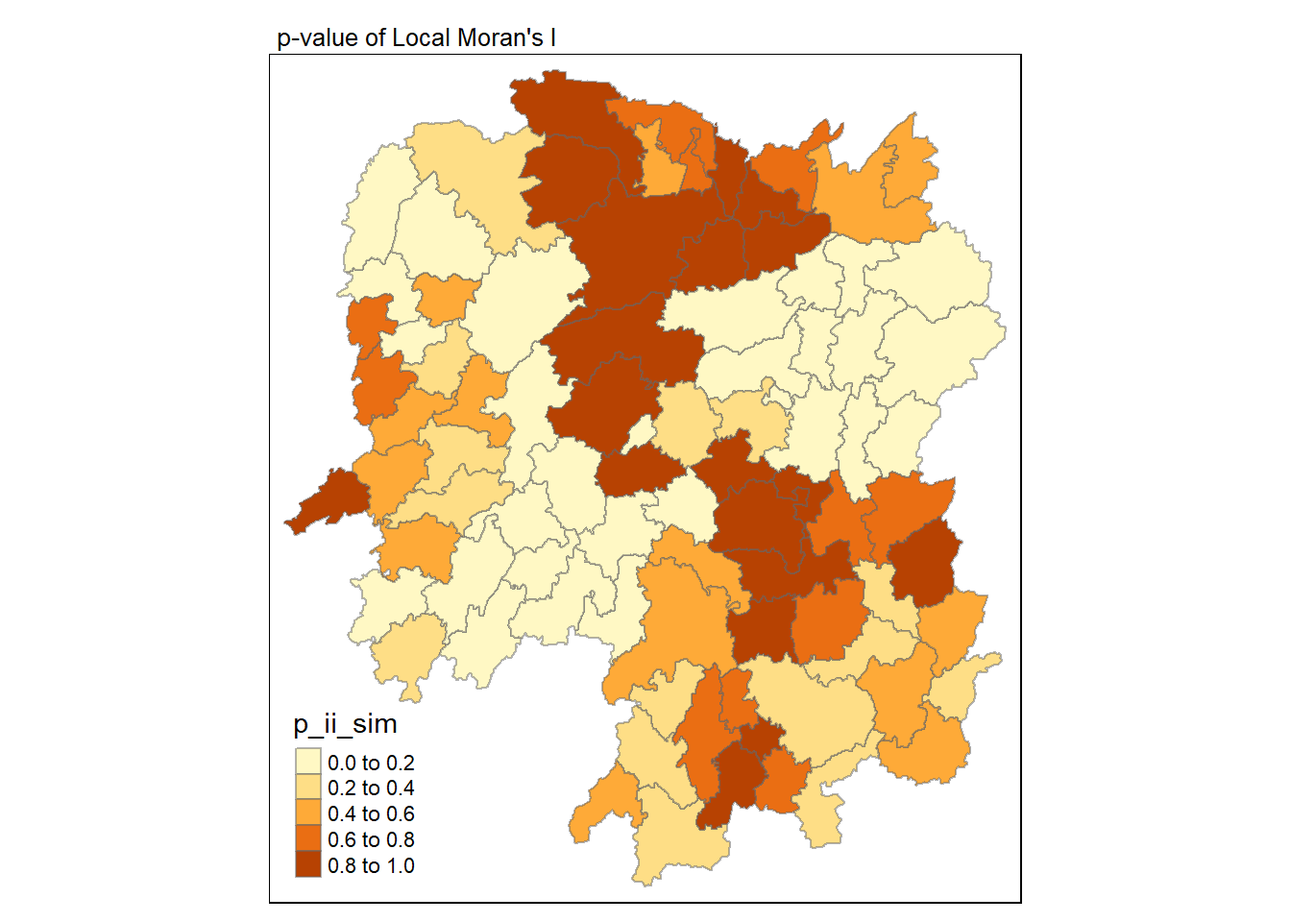
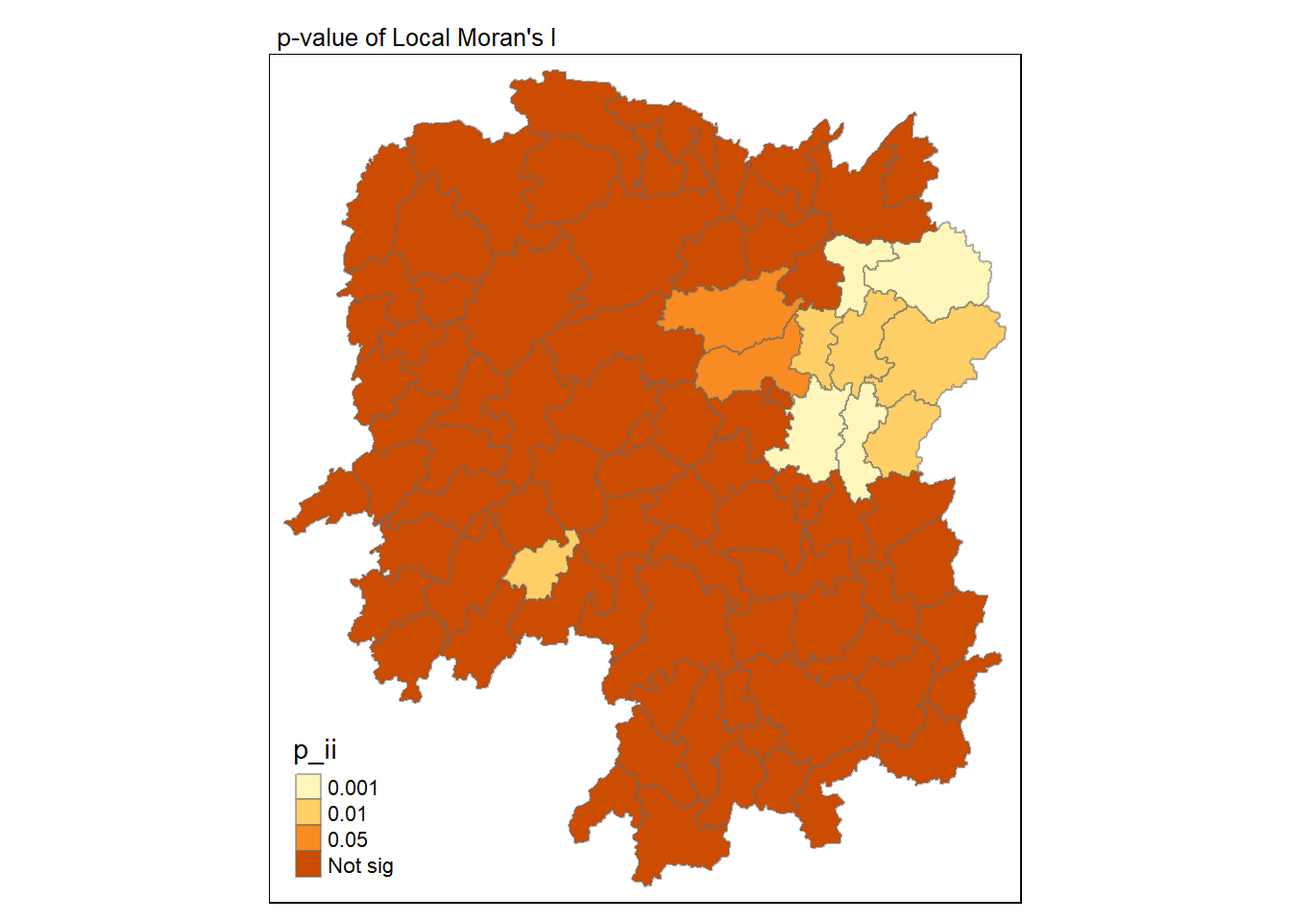
updates to inclass exercise 2b

Changed region(s): [[0.25, 0.0938, 0.7812, 0.9688], [0.2188, 0.7812, 0.3438, 0.9688]]

diff --git a/_site/In-class_Ex/In-class_Ex2/In-class_Ex2b.html b/_site/In-class_Ex/In-class_Ex2/In-class_Ex2b.html
@@ -223,11 +223,16 @@ pre > code.sourceCode > span > a:first-child::before { text-decoration: underlin
   <li><a href="#performning-global-morans-i-permutation-test" id="toc-performning-global-morans-i-permutation-test" class="nav-link" data-scroll-target="#performning-global-morans-i-permutation-test"><span class="header-section-number">7.4</span> Performning Global Moran’s I permutation test</a></li>
   <li><a href="#computing-local-morans-i" id="toc-computing-local-morans-i" class="nav-link" data-scroll-target="#computing-local-morans-i"><span class="header-section-number">7.5</span> Computing Local Moran’s I</a></li>
   <li><a href="#visualising-local-morans-i" id="toc-visualising-local-morans-i" class="nav-link" data-scroll-target="#visualising-local-morans-i"><span class="header-section-number">7.6</span> Visualising Local Moran’s I</a></li>
-  <li><a href="#visualising-local-morans-p-value" id="toc-visualising-local-morans-p-value" class="nav-link" data-scroll-target="#visualising-local-morans-p-value"><span class="header-section-number">7.7</span> Visualising Local Moran’s p-value</a></li>
-  <li><a href="#visualising-local-morans-i-and-p-value" id="toc-visualising-local-morans-i-and-p-value" class="nav-link" data-scroll-target="#visualising-local-morans-i-and-p-value"><span class="header-section-number">7.8</span> Visualising Local Moran’s I and p-value</a></li>
+  <li><a href="#visualising-local-morans-p-values" id="toc-visualising-local-morans-p-values" class="nav-link" data-scroll-target="#visualising-local-morans-p-values"><span class="header-section-number">7.7</span> Visualising Local Moran’s p-values</a></li>
+  <li><a href="#visualising-local-morans-i-and-p-values" id="toc-visualising-local-morans-i-and-p-values" class="nav-link" data-scroll-target="#visualising-local-morans-i-and-p-values"><span class="header-section-number">7.8</span> Visualising Local Moran’s I and p-values</a></li>
   <li><a href="#visualising-lisa-map" id="toc-visualising-lisa-map" class="nav-link" data-scroll-target="#visualising-lisa-map"><span class="header-section-number">7.9</span> Visualising LISA Map</a></li>
   </ul></li>
   <li><a href="#hot-spot-and-cold-spot-area-analysis-hcsa" id="toc-hot-spot-and-cold-spot-area-analysis-hcsa" class="nav-link" data-scroll-target="#hot-spot-and-cold-spot-area-analysis-hcsa"><span class="header-section-number">8</span> Hot Spot and Cold Spot Area Analysis (HCSA)</a></li>
+  <li><a href="#computing-local-gi-statistics" id="toc-computing-local-gi-statistics" class="nav-link" data-scroll-target="#computing-local-gi-statistics"><span class="header-section-number">9</span> Computing local Gi* Statistics</a>
+  <ul class="collapse">
+  <li><a href="#visualing-gi" id="toc-visualing-gi" class="nav-link" data-scroll-target="#visualing-gi"><span class="header-section-number">9.1</span> Visualing Gi*</a></li>
+  <li><a href="#visualising-hot-spot-and-cold-spot-areas" id="toc-visualising-hot-spot-and-cold-spot-areas" class="nav-link" data-scroll-target="#visualising-hot-spot-and-cold-spot-areas"><span class="header-section-number">9.2</span> Visualising Hot Spot and Cold Spot Areas</a></li>
+  </ul></li>
   </ul>
 </nav>
     </div>
@@ -612,23 +617,24 @@ Geodetic CRS:  WGS 84
 </div>
 </div>
 </section>
-<section id="visualising-local-morans-p-value" class="level3" data-number="7.7">
-<h3 data-number="7.7" class="anchored" data-anchor-id="visualising-local-morans-p-value"><span class="header-section-number">7.7</span> Visualising Local Moran’s p-value</h3>
-<p>We can use <strong>tmap</strong> package to prepare a choropleth map using the values in the <em>p_ii_sim</em> field.</p>
+<section id="visualising-local-morans-p-values" class="level3" data-number="7.7">
+<h3 data-number="7.7" class="anchored" data-anchor-id="visualising-local-morans-p-values"><span class="header-section-number">7.7</span> Visualising Local Moran’s p-values</h3>
+<p>We can use <strong>tmap</strong> package to prepare a choropleth map using the values in the <em>p_ii</em> field.</p>
 <div class="cell">
 <div class="sourceCode cell-code" id="cb20"><pre class="sourceCode r code-with-copy"><code class="sourceCode r"><span id="cb20-1"><a href="#cb20-1" aria-hidden="true" tabindex="-1"></a><span class="fu">tmap_mode</span>(<span class="st">"plot"</span>)</span>
 <span id="cb20-2"><a href="#cb20-2" aria-hidden="true" tabindex="-1"></a><span class="fu">tm_shape</span>(lisa) <span class="sc">+</span></span>
-<span id="cb20-3"><a href="#cb20-3" aria-hidden="true" tabindex="-1"></a>  <span class="fu">tm_fill</span>(<span class="st">"p_ii_sim"</span>) <span class="sc">+</span></span>
-<span id="cb20-4"><a href="#cb20-4" aria-hidden="true" tabindex="-1"></a>  <span class="fu">tm_borders</span>(<span class="at">alpha =</span> <span class="fl">0.5</span>) <span class="sc">+</span></span>
-<span id="cb20-5"><a href="#cb20-5" aria-hidden="true" tabindex="-1"></a>  <span class="fu">tm_layout</span>(<span class="at">main.title =</span> <span class="st">"p-value of Local Moran's I"</span>, </span>
-<span id="cb20-6"><a href="#cb20-6" aria-hidden="true" tabindex="-1"></a>            <span class="at">main.title.size =</span> <span class="fl">0.8</span>)</span></code><button title="Copy to Clipboard" class="code-copy-button"><i class="bi"></i></button></pre></div>
+<span id="cb20-3"><a href="#cb20-3" aria-hidden="true" tabindex="-1"></a>  <span class="fu">tm_fill</span>(<span class="st">"p_ii"</span>, <span class="at">breaks =</span> <span class="fu">c</span>(<span class="dv">0</span>, <span class="fl">0.001</span>, <span class="fl">0.01</span>, <span class="fl">0.05</span>, <span class="dv">1</span>),</span>
+<span id="cb20-4"><a href="#cb20-4" aria-hidden="true" tabindex="-1"></a>              <span class="at">labels =</span> <span class="fu">c</span>(<span class="st">"0.001"</span>, <span class="st">"0.01"</span>, <span class="st">"0.05"</span>, <span class="st">"Not sig"</span>)) <span class="sc">+</span></span>
+<span id="cb20-5"><a href="#cb20-5" aria-hidden="true" tabindex="-1"></a>  <span class="fu">tm_borders</span>(<span class="at">alpha =</span> <span class="fl">0.5</span>) <span class="sc">+</span></span>
+<span id="cb20-6"><a href="#cb20-6" aria-hidden="true" tabindex="-1"></a>  <span class="fu">tm_layout</span>(<span class="at">main.title =</span> <span class="st">"p-value of Local Moran's I"</span>, </span>
+<span id="cb20-7"><a href="#cb20-7" aria-hidden="true" tabindex="-1"></a>            <span class="at">main.title.size =</span> <span class="fl">0.8</span>)</span></code><button title="Copy to Clipboard" class="code-copy-button"><i class="bi"></i></button></pre></div>
 <div class="cell-output-display">
 <p><img src="In-class_Ex2b_files/figure-html/unnamed-chunk-14-1.png" class="img-fluid" width="672"></p>
 </div>
 </div>
 </section>
-<section id="visualising-local-morans-i-and-p-value" class="level3" data-number="7.8">
-<h3 data-number="7.8" class="anchored" data-anchor-id="visualising-local-morans-i-and-p-value"><span class="header-section-number">7.8</span> Visualising Local Moran’s I and p-value</h3>
+<section id="visualising-local-morans-i-and-p-values" class="level3" data-number="7.8">
+<h3 data-number="7.8" class="anchored" data-anchor-id="visualising-local-morans-i-and-p-values"><span class="header-section-number">7.8</span> Visualising Local Moran’s I and p-values</h3>
 <p>For effective comparison, let us plot both maps next to each other.</p>
 <div class="cell">
 <div class="sourceCode cell-code" id="cb21"><pre class="sourceCode r code-with-copy"><code class="sourceCode r"><span id="cb21-1"><a href="#cb21-1" aria-hidden="true" tabindex="-1"></a><span class="fu">tmap_mode</span>(<span class="st">"plot"</span>)</span>
@@ -639,13 +645,14 @@ Geodetic CRS:  WGS 84
 <span id="cb21-6"><a href="#cb21-6" aria-hidden="true" tabindex="-1"></a>  <span class="fu">tm_layout</span>(<span class="at">main.title =</span> <span class="st">"Local Moran's I of GDPPC"</span>, </span>
 <span id="cb21-7"><a href="#cb21-7" aria-hidden="true" tabindex="-1"></a>            <span class="at">main.title.size =</span> <span class="fl">0.8</span>)</span>
 <span id="cb21-8"><a href="#cb21-8" aria-hidden="true" tabindex="-1"></a></span>
-<span id="cb21-9"><a href="#cb21-9" aria-hidden="true" tabindex="-1"></a>piisim_val <span class="ot">&lt;-</span> <span class="fu">tm_shape</span>(lisa) <span class="sc">+</span></span>
-<span id="cb21-10"><a href="#cb21-10" aria-hidden="true" tabindex="-1"></a>  <span class="fu">tm_fill</span>(<span class="st">"p_ii_sim"</span>) <span class="sc">+</span></span>
-<span id="cb21-11"><a href="#cb21-11" aria-hidden="true" tabindex="-1"></a>  <span class="fu">tm_borders</span>(<span class="at">alpha =</span> <span class="fl">0.5</span>) <span class="sc">+</span></span>
-<span id="cb21-12"><a href="#cb21-12" aria-hidden="true" tabindex="-1"></a>  <span class="fu">tm_layout</span>(<span class="at">main.title =</span> <span class="st">"p-value of Local Moran's I"</span>, </span>
-<span id="cb21-13"><a href="#cb21-13" aria-hidden="true" tabindex="-1"></a>            <span class="at">main.title.size =</span> <span class="fl">0.8</span>)</span>
-<span id="cb21-14"><a href="#cb21-14" aria-hidden="true" tabindex="-1"></a></span>
-<span id="cb21-15"><a href="#cb21-15" aria-hidden="true" tabindex="-1"></a><span class="fu">tmap_arrange</span>(ii_val, piisim_val, <span class="at">asp =</span> <span class="dv">1</span>, <span class="at">ncol =</span> <span class="dv">2</span>)</span></code><button title="Copy to Clipboard" class="code-copy-button"><i class="bi"></i></button></pre></div>
+<span id="cb21-9"><a href="#cb21-9" aria-hidden="true" tabindex="-1"></a>pii_val <span class="ot">&lt;-</span> <span class="fu">tm_shape</span>(lisa) <span class="sc">+</span></span>
+<span id="cb21-10"><a href="#cb21-10" aria-hidden="true" tabindex="-1"></a>  <span class="fu">tm_fill</span>(<span class="st">"p_ii"</span>, <span class="at">breaks =</span> <span class="fu">c</span>(<span class="dv">0</span>, <span class="fl">0.001</span>, <span class="fl">0.01</span>, <span class="fl">0.05</span>, <span class="dv">1</span>),</span>
+<span id="cb21-11"><a href="#cb21-11" aria-hidden="true" tabindex="-1"></a>              <span class="at">labels =</span> <span class="fu">c</span>(<span class="st">"0.001"</span>, <span class="st">"0.01"</span>, <span class="st">"0.05"</span>, <span class="st">"Not sig"</span>)) <span class="sc">+</span></span>
+<span id="cb21-12"><a href="#cb21-12" aria-hidden="true" tabindex="-1"></a>  <span class="fu">tm_borders</span>(<span class="at">alpha =</span> <span class="fl">0.5</span>) <span class="sc">+</span></span>
+<span id="cb21-13"><a href="#cb21-13" aria-hidden="true" tabindex="-1"></a>  <span class="fu">tm_layout</span>(<span class="at">main.title =</span> <span class="st">"p-value of Local Moran's I"</span>, </span>
+<span id="cb21-14"><a href="#cb21-14" aria-hidden="true" tabindex="-1"></a>            <span class="at">main.title.size =</span> <span class="fl">0.8</span>)</span>
+<span id="cb21-15"><a href="#cb21-15" aria-hidden="true" tabindex="-1"></a></span>
+<span id="cb21-16"><a href="#cb21-16" aria-hidden="true" tabindex="-1"></a><span class="fu">tmap_arrange</span>(ii_val, pii_val, <span class="at">asp =</span> <span class="dv">1</span>, <span class="at">ncol =</span> <span class="dv">2</span>)</span></code><button title="Copy to Clipboard" class="code-copy-button"><i class="bi"></i></button></pre></div>
 <div class="cell-output-display">
 <p><img src="In-class_Ex2b_files/figure-html/unnamed-chunk-15-1.png" class="img-fluid" width="672"></p>
 </div>
@@ -653,12 +660,156 @@ Geodetic CRS:  WGS 84
 </section>
 <section id="visualising-lisa-map" class="level3" data-number="7.9">
 <h3 data-number="7.9" class="anchored" data-anchor-id="visualising-lisa-map"><span class="header-section-number">7.9</span> Visualising LISA Map</h3>
+<p>LISA map is a categorical map showing outliers and clusters. There are two types of outliers namely: High-Low and Low-High outliers. Likewise, there are two type of clusters namely: High-High and Low-Low cluaters. In fact, LISA map is an interpreted map by combining local Moran's I of geographical areas and their respective p-values.</p>
+<p>In <code>lisa</code> sf data.frame, we can find three fields contain the LISA categories. They are&nbsp;<em>mean</em>,&nbsp;<em>median</em>&nbsp;and&nbsp;<em>pysal</em>. In general, classification in&nbsp;<em>mean</em>&nbsp;will be used as shown in the code chunk below.</p>
+<div class="cell">
+<div class="sourceCode cell-code" id="cb22"><pre class="sourceCode r code-with-copy"><code class="sourceCode r"><span id="cb22-1"><a href="#cb22-1" aria-hidden="true" tabindex="-1"></a>lisa_sig <span class="ot">&lt;-</span> lisa <span class="sc">%&gt;%</span> </span>
+<span id="cb22-2"><a href="#cb22-2" aria-hidden="true" tabindex="-1"></a>  <span class="fu">filter</span>(p_ii <span class="sc">&lt;</span><span class="fl">0.05</span>)</span>
+<span id="cb22-3"><a href="#cb22-3" aria-hidden="true" tabindex="-1"></a></span>
+<span id="cb22-4"><a href="#cb22-4" aria-hidden="true" tabindex="-1"></a><span class="fu">tmap_mode</span>(<span class="st">"plot"</span>)</span>
+<span id="cb22-5"><a href="#cb22-5" aria-hidden="true" tabindex="-1"></a><span class="fu">tm_shape</span>(lisa) <span class="sc">+</span> </span>
+<span id="cb22-6"><a href="#cb22-6" aria-hidden="true" tabindex="-1"></a>  <span class="fu">tm_polygons</span>() <span class="sc">+</span></span>
+<span id="cb22-7"><a href="#cb22-7" aria-hidden="true" tabindex="-1"></a>  <span class="fu">tm_borders</span>(<span class="at">alpha =</span> <span class="fl">0.5</span>) <span class="sc">+</span></span>
+<span id="cb22-8"><a href="#cb22-8" aria-hidden="true" tabindex="-1"></a>  <span class="fu">tm_shape</span>(lisa_sig) <span class="sc">+</span> </span>
+<span id="cb22-9"><a href="#cb22-9" aria-hidden="true" tabindex="-1"></a>  <span class="fu">tm_fill</span>(<span class="st">"mean"</span>) <span class="sc">+</span></span>
+<span id="cb22-10"><a href="#cb22-10" aria-hidden="true" tabindex="-1"></a>  <span class="fu">tm_borders</span>(<span class="at">alpha =</span> <span class="fl">0.4</span>)</span></code><button title="Copy to Clipboard" class="code-copy-button"><i class="bi"></i></button></pre></div>
+<div class="cell-output-display">
+<p><img src="In-class_Ex2b_files/figure-html/unnamed-chunk-16-1.png" class="img-fluid" width="672"></p>
+</div>
+</div>
 </section>
 </section>
 <section id="hot-spot-and-cold-spot-area-analysis-hcsa" class="level2" data-number="8">
 <h2 data-number="8" class="anchored" data-anchor-id="hot-spot-and-cold-spot-area-analysis-hcsa"><span class="header-section-number">8</span> Hot Spot and Cold Spot Area Analysis (HCSA)</h2>
+<p>HCSA uses spatial weights to identify locations of statistically significant hot spots and cold spots in an spatially weighted attribute that are in proximity to one another based on a calculated distance. The analysis groups features when similar high (hot) or low (cold) values are found in a cluster. The polygon features usually represent administration boundaries or a custom grid structure.</p>
+</section>
+<section id="computing-local-gi-statistics" class="level2" data-number="9">
+<h2 data-number="9" class="anchored" data-anchor-id="computing-local-gi-statistics"><span class="header-section-number">9</span> Computing local Gi* Statistics</h2>
+<p>First, we will compute an inverse distance weight matrix.</p>
+<div class="cell">
+<div class="sourceCode cell-code" id="cb23"><pre class="sourceCode r code-with-copy"><code class="sourceCode r"><span id="cb23-1"><a href="#cb23-1" aria-hidden="true" tabindex="-1"></a>wm_idw <span class="ot">&lt;-</span> hunan_GDPPC <span class="sc">%&gt;%</span></span>
+<span id="cb23-2"><a href="#cb23-2" aria-hidden="true" tabindex="-1"></a>  <span class="fu">mutate</span>(<span class="at">nb =</span> <span class="fu">st_contiguity</span>(geometry), </span>
+<span id="cb23-3"><a href="#cb23-3" aria-hidden="true" tabindex="-1"></a>         <span class="at">wt =</span> <span class="fu">st_inverse_distance</span>(nb, geometry, </span>
+<span id="cb23-4"><a href="#cb23-4" aria-hidden="true" tabindex="-1"></a>                                  <span class="at">scale =</span> <span class="dv">1</span>,</span>
+<span id="cb23-5"><a href="#cb23-5" aria-hidden="true" tabindex="-1"></a>                                  <span class="at">alpha =</span> <span class="dv">1</span>),</span>
+<span id="cb23-6"><a href="#cb23-6" aria-hidden="true" tabindex="-1"></a>         <span class="at">.before=</span><span class="dv">1</span>)</span></code><button title="Copy to Clipboard" class="code-copy-button"><i class="bi"></i></button></pre></div>
+</div>
+<p>We will then use <em>local_gstar_perm()</em> of <strong>sfdep</strong> package to compute local Gi* statistics using the following code chunk.</p>
+<div class="cell">
+<div class="sourceCode cell-code" id="cb24"><pre class="sourceCode r code-with-copy"><code class="sourceCode r"><span id="cb24-1"><a href="#cb24-1" aria-hidden="true" tabindex="-1"></a>HCSA <span class="ot">&lt;-</span> wm_idw <span class="sc">%&gt;%</span> </span>
+<span id="cb24-2"><a href="#cb24-2" aria-hidden="true" tabindex="-1"></a>  <span class="fu">mutate</span>(<span class="at">local_Gi =</span> <span class="fu">local_gstar_perm</span>(GDPPC, nb, wt, <span class="at">nsim=</span><span class="dv">99</span>),</span>
+<span id="cb24-3"><a href="#cb24-3" aria-hidden="true" tabindex="-1"></a>         <span class="at">.before =</span> <span class="dv">1</span>) <span class="sc">%&gt;%</span> </span>
+<span id="cb24-4"><a href="#cb24-4" aria-hidden="true" tabindex="-1"></a>  <span class="fu">unnest</span>(local_Gi)</span></code><button title="Copy to Clipboard" class="code-copy-button"><i class="bi"></i></button></pre></div>
+</div>
+<p>Let us take a look at the output.</p>
+<div class="cell">
+<div class="sourceCode cell-code" id="cb25"><pre class="sourceCode r code-with-copy"><code class="sourceCode r"><span id="cb25-1"><a href="#cb25-1" aria-hidden="true" tabindex="-1"></a>HCSA</span></code><button title="Copy to Clipboard" class="code-copy-button"><i class="bi"></i></button></pre></div>
+<div class="cell-output cell-output-stdout">
+<pre><code>Simple feature collection with 88 features and 16 fields
+Geometry type: POLYGON
+Dimension:     XY
+Bounding box:  xmin: 108.7831 ymin: 24.6342 xmax: 114.2544 ymax: 30.12812
+Geodetic CRS:  WGS 84
+# A tibble: 88 × 17
+   gi_star   e_gi    var_gi p_value   p_sim p_folded_sim skewness kurtosis nb   
+     &lt;dbl&gt;  &lt;dbl&gt;     &lt;dbl&gt;   &lt;dbl&gt;   &lt;dbl&gt;        &lt;dbl&gt;    &lt;dbl&gt;    &lt;dbl&gt; &lt;nb&gt; 
+ 1  0.0416 0.0114   6.41e-6  0.0493 9.61e-1         0.7      0.35    0.875 &lt;int&gt;
+ 2 -0.333  0.0106   3.84e-6 -0.0941 9.25e-1         1        0.5     0.661 &lt;int&gt;
+ 3  0.281  0.0126   7.51e-6 -0.151  8.80e-1         0.9      0.45    0.640 &lt;int&gt;
+ 4  0.411  0.0118   9.22e-6  0.264  7.92e-1         0.6      0.3     0.853 &lt;int&gt;
+ 5  0.387  0.0115   9.56e-6  0.339  7.34e-1         0.62     0.31    1.07  &lt;int&gt;
+ 6 -0.368  0.0118   5.91e-6 -0.583  5.60e-1         0.72     0.36    0.594 &lt;int&gt;
+ 7  3.56   0.0151   7.31e-6  2.61   9.01e-3         0.06     0.03    1.09  &lt;int&gt;
+ 8  2.52   0.0136   6.14e-6  1.49   1.35e-1         0.2      0.1     1.12  &lt;int&gt;
+ 9  4.56   0.0144   5.84e-6  3.53   4.17e-4         0.04     0.02    1.23  &lt;int&gt;
+10  1.16   0.0104   3.70e-6  1.82   6.86e-2         0.12     0.06    0.416 &lt;int&gt;
+# ℹ 78 more rows
+# ℹ 8 more variables: wt &lt;list&gt;, NAME_2 &lt;chr&gt;, ID_3 &lt;int&gt;, NAME_3 &lt;chr&gt;,
+#   ENGTYPE_3 &lt;chr&gt;, County &lt;chr&gt;, GDPPC &lt;int&gt;, geometry &lt;POLYGON [°]&gt;</code></pre>
+</div>
+</div>
+<p>From the above results, we see that the following columns are generated due to <em>local_gstar_perm()</em> :</p>
+<ul>
+<li><p><em>gi_star</em>: the observed statistic</p></li>
+<li><p>e_gi: the permutation sample mean</p></li>
+<li><p><em>var_gi</em>: the permutation sample variance</p></li>
+<li><p><em>p_value</em>: the p-value using sample mean and standard deviation</p></li>
+<li><p><em>p_folded_sim</em>: p-value based on the implementation of Pysal which always assumes a two-sided test taking the minimum possible p-value</p></li>
+<li><p><em>skewness</em>: sample skewness</p></li>
+<li><p><em>kurtosis</em>: sample kurtosis</p></li>
+</ul>
+<section id="visualing-gi" class="level3" data-number="9.1">
+<h3 data-number="9.1" class="anchored" data-anchor-id="visualing-gi"><span class="header-section-number">9.1</span> Visualing Gi*</h3>
+<p>We use the following code chunk to visualise the Gi* computed.</p>
+<div class="cell">
+<div class="sourceCode cell-code" id="cb27"><pre class="sourceCode r code-with-copy"><code class="sourceCode r"><span id="cb27-1"><a href="#cb27-1" aria-hidden="true" tabindex="-1"></a><span class="fu">tmap_mode</span>(<span class="st">"plot"</span>)</span>
+<span id="cb27-2"><a href="#cb27-2" aria-hidden="true" tabindex="-1"></a></span>
+<span id="cb27-3"><a href="#cb27-3" aria-hidden="true" tabindex="-1"></a><span class="fu">tm_shape</span>(HCSA) <span class="sc">+</span></span>
+<span id="cb27-4"><a href="#cb27-4" aria-hidden="true" tabindex="-1"></a>  <span class="fu">tm_fill</span>(<span class="st">"gi_star"</span>) <span class="sc">+</span></span>
+<span id="cb27-5"><a href="#cb27-5" aria-hidden="true" tabindex="-1"></a>  <span class="fu">tm_borders</span>(<span class="at">alpha =</span> <span class="fl">0.5</span>) <span class="sc">+</span></span>
+<span id="cb27-6"><a href="#cb27-6" aria-hidden="true" tabindex="-1"></a>  <span class="fu">tm_view</span>(<span class="at">set.zoom.limits =</span> <span class="fu">c</span>(<span class="dv">6</span>,<span class="dv">8</span>))</span></code><button title="Copy to Clipboard" class="code-copy-button"><i class="bi"></i></button></pre></div>
+<div class="cell-output-display">
+<p><img src="In-class_Ex2b_files/figure-html/unnamed-chunk-20-1.png" class="img-fluid" width="672"></p>
+</div>
+</div>
+<p>Visualising p-value of HCSA</p>
+<p>We use the following code chunk to visualise the p-values of HCSA computed.</p>
+<div class="cell">
+<div class="sourceCode cell-code" id="cb28"><pre class="sourceCode r code-with-copy"><code class="sourceCode r"><span id="cb28-1"><a href="#cb28-1" aria-hidden="true" tabindex="-1"></a><span class="fu">tmap_mode</span>(<span class="st">"plot"</span>)</span>
+<span id="cb28-2"><a href="#cb28-2" aria-hidden="true" tabindex="-1"></a></span>
+<span id="cb28-3"><a href="#cb28-3" aria-hidden="true" tabindex="-1"></a><span class="fu">tm_shape</span>(HCSA) <span class="sc">+</span></span>
+<span id="cb28-4"><a href="#cb28-4" aria-hidden="true" tabindex="-1"></a>  <span class="fu">tm_fill</span>(<span class="st">"p_folded_sim"</span>) <span class="sc">+</span></span>
+<span id="cb28-5"><a href="#cb28-5" aria-hidden="true" tabindex="-1"></a>  <span class="fu">tm_borders</span>(<span class="at">alpha =</span> <span class="fl">0.5</span>) <span class="sc">+</span></span>
+<span id="cb28-6"><a href="#cb28-6" aria-hidden="true" tabindex="-1"></a>  <span class="fu">tm_view</span>(<span class="at">set.zoom.limits =</span> <span class="fu">c</span>(<span class="dv">6</span>,<span class="dv">8</span>))</span></code><button title="Copy to Clipboard" class="code-copy-button"><i class="bi"></i></button></pre></div>
+<div class="cell-output-display">
+<p><img src="In-class_Ex2b_files/figure-html/unnamed-chunk-21-1.png" class="img-fluid" width="672"></p>
+</div>
+</div>
+<p>For effective comparison, we plot both maps next to each other.</p>
+<div class="cell">
+<div class="sourceCode cell-code" id="cb29"><pre class="sourceCode r code-with-copy"><code class="sourceCode r"><span id="cb29-1"><a href="#cb29-1" aria-hidden="true" tabindex="-1"></a><span class="fu">tmap_mode</span>(<span class="st">"plot"</span>)</span>
+<span id="cb29-2"><a href="#cb29-2" aria-hidden="true" tabindex="-1"></a>map1 <span class="ot">&lt;-</span> <span class="fu">tm_shape</span>(HCSA) <span class="sc">+</span></span>
+<span id="cb29-3"><a href="#cb29-3" aria-hidden="true" tabindex="-1"></a>  <span class="fu">tm_fill</span>(<span class="st">"gi_star"</span>) <span class="sc">+</span> </span>
+<span id="cb29-4"><a href="#cb29-4" aria-hidden="true" tabindex="-1"></a>  <span class="fu">tm_borders</span>(<span class="at">alpha =</span> <span class="fl">0.5</span>) <span class="sc">+</span></span>
+<span id="cb29-5"><a href="#cb29-5" aria-hidden="true" tabindex="-1"></a>  <span class="fu">tm_view</span>(<span class="at">set.zoom.limits =</span> <span class="fu">c</span>(<span class="dv">6</span>,<span class="dv">8</span>)) <span class="sc">+</span></span>
+<span id="cb29-6"><a href="#cb29-6" aria-hidden="true" tabindex="-1"></a>  <span class="fu">tm_layout</span>(<span class="at">main.title =</span> <span class="st">"Gi* of GDPPC"</span>,</span>
+<span id="cb29-7"><a href="#cb29-7" aria-hidden="true" tabindex="-1"></a>            <span class="at">main.title.size =</span> <span class="fl">0.8</span>)</span>
+<span id="cb29-8"><a href="#cb29-8" aria-hidden="true" tabindex="-1"></a></span>
+<span id="cb29-9"><a href="#cb29-9" aria-hidden="true" tabindex="-1"></a>map2 <span class="ot">&lt;-</span> <span class="fu">tm_shape</span>(HCSA) <span class="sc">+</span></span>
+<span id="cb29-10"><a href="#cb29-10" aria-hidden="true" tabindex="-1"></a>  <span class="fu">tm_fill</span>(<span class="st">"p_value"</span>,</span>
+<span id="cb29-11"><a href="#cb29-11" aria-hidden="true" tabindex="-1"></a>          <span class="at">breaks =</span> <span class="fu">c</span>(<span class="dv">0</span>, <span class="fl">0.001</span>, <span class="fl">0.01</span>, <span class="fl">0.05</span>, <span class="dv">1</span>),</span>
+<span id="cb29-12"><a href="#cb29-12" aria-hidden="true" tabindex="-1"></a>          <span class="at">labels =</span> <span class="fu">c</span>(<span class="st">"0.001"</span>, <span class="st">"0.01"</span>, <span class="st">"0.05"</span>, <span class="st">"Not sig"</span>)) <span class="sc">+</span> </span>
+<span id="cb29-13"><a href="#cb29-13" aria-hidden="true" tabindex="-1"></a>  <span class="fu">tm_borders</span>(<span class="at">alpha =</span> <span class="fl">0.5</span>) <span class="sc">+</span></span>
+<span id="cb29-14"><a href="#cb29-14" aria-hidden="true" tabindex="-1"></a>  <span class="fu">tm_layout</span>(<span class="at">main.title =</span> <span class="st">"p-value of Gi*"</span>,</span>
+<span id="cb29-15"><a href="#cb29-15" aria-hidden="true" tabindex="-1"></a>            <span class="at">main.title.size =</span> <span class="fl">0.8</span>)</span>
+<span id="cb29-16"><a href="#cb29-16" aria-hidden="true" tabindex="-1"></a></span>
+<span id="cb29-17"><a href="#cb29-17" aria-hidden="true" tabindex="-1"></a><span class="fu">tmap_arrange</span>(map1, map2, <span class="at">ncol =</span> <span class="dv">2</span>)</span></code><button title="Copy to Clipboard" class="code-copy-button"><i class="bi"></i></button></pre></div>
+<div class="cell-output-display">
+<p><img src="In-class_Ex2b_files/figure-html/unnamed-chunk-22-1.png" class="img-fluid" width="672"></p>
+</div>
+</div>
+</section>
+<section id="visualising-hot-spot-and-cold-spot-areas" class="level3" data-number="9.2">
+<h3 data-number="9.2" class="anchored" data-anchor-id="visualising-hot-spot-and-cold-spot-areas"><span class="header-section-number">9.2</span> Visualising Hot Spot and Cold Spot Areas</h3>
+<p>Now, we are ready to plot the significant (i.e.&nbsp;p-values less than 0.05) hot spot and cold spot areas by using&nbsp;the following code chunk.</p>
+<div class="cell">
+<div class="sourceCode cell-code" id="cb30"><pre class="sourceCode r code-with-copy"><code class="sourceCode r"><span id="cb30-1"><a href="#cb30-1" aria-hidden="true" tabindex="-1"></a>HCSA_sig <span class="ot">&lt;-</span> HCSA  <span class="sc">%&gt;%</span></span>
+<span id="cb30-2"><a href="#cb30-2" aria-hidden="true" tabindex="-1"></a>  <span class="fu">filter</span>(p_folded_sim <span class="sc">&lt;</span> <span class="fl">0.05</span>)</span>
+<span id="cb30-3"><a href="#cb30-3" aria-hidden="true" tabindex="-1"></a></span>
+<span id="cb30-4"><a href="#cb30-4" aria-hidden="true" tabindex="-1"></a><span class="fu">tmap_mode</span>(<span class="st">"plot"</span>)</span>
+<span id="cb30-5"><a href="#cb30-5" aria-hidden="true" tabindex="-1"></a><span class="fu">tm_shape</span>(HCSA) <span class="sc">+</span></span>
+<span id="cb30-6"><a href="#cb30-6" aria-hidden="true" tabindex="-1"></a>  <span class="fu">tm_polygons</span>() <span class="sc">+</span></span>
+<span id="cb30-7"><a href="#cb30-7" aria-hidden="true" tabindex="-1"></a>  <span class="fu">tm_borders</span>(<span class="at">alpha =</span> <span class="fl">0.5</span>) <span class="sc">+</span></span>
+<span id="cb30-8"><a href="#cb30-8" aria-hidden="true" tabindex="-1"></a><span class="fu">tm_shape</span>(HCSA_sig) <span class="sc">+</span></span>
+<span id="cb30-9"><a href="#cb30-9" aria-hidden="true" tabindex="-1"></a>  <span class="fu">tm_fill</span>(<span class="st">"gi_star"</span>) <span class="sc">+</span> </span>
+<span id="cb30-10"><a href="#cb30-10" aria-hidden="true" tabindex="-1"></a>  <span class="fu">tm_borders</span>(<span class="at">alpha =</span> <span class="fl">0.4</span>)</span></code><button title="Copy to Clipboard" class="code-copy-button"><i class="bi"></i></button></pre></div>
+<div class="cell-output-display">
+<p><img src="In-class_Ex2b_files/figure-html/unnamed-chunk-23-1.png" class="img-fluid" width="672"></p>
+</div>
+</div>
 
 
+</section>
 </section>
 
 </main> <!-- /main -->

diff --git a/_site/index.html b/_site/index.html
@@ -403,7 +403,7 @@ Nov 25, 2023
 </div>
 </a>
 </div>
-<div class="g-col-1" data-index="2" data-listing-date-sort="1700841600000" data-listing-file-modified-sort="1700954439268" data-listing-date-modified-sort="1700954439000" data-listing-reading-time-sort="8">
+<div class="g-col-1" data-index="2" data-listing-date-sort="1700841600000" data-listing-file-modified-sort="1700957284385" data-listing-date-modified-sort="1700957284000" data-listing-reading-time-sort="11">
 <a href="./In-class_Ex/In-class_Ex2/In-class_Ex2b.html" class="quarto-grid-link">
 <div class="quarto-grid-item card h-100 card-left">
 <p class="card-img-top"><img src="In-class_Ex\In-class_Ex2\In-class_Ex2b_files\figure-html\unnamed-chunk-5-1.png" style="height: 150px;"  class="thumbnail-image card-img"/></p>
